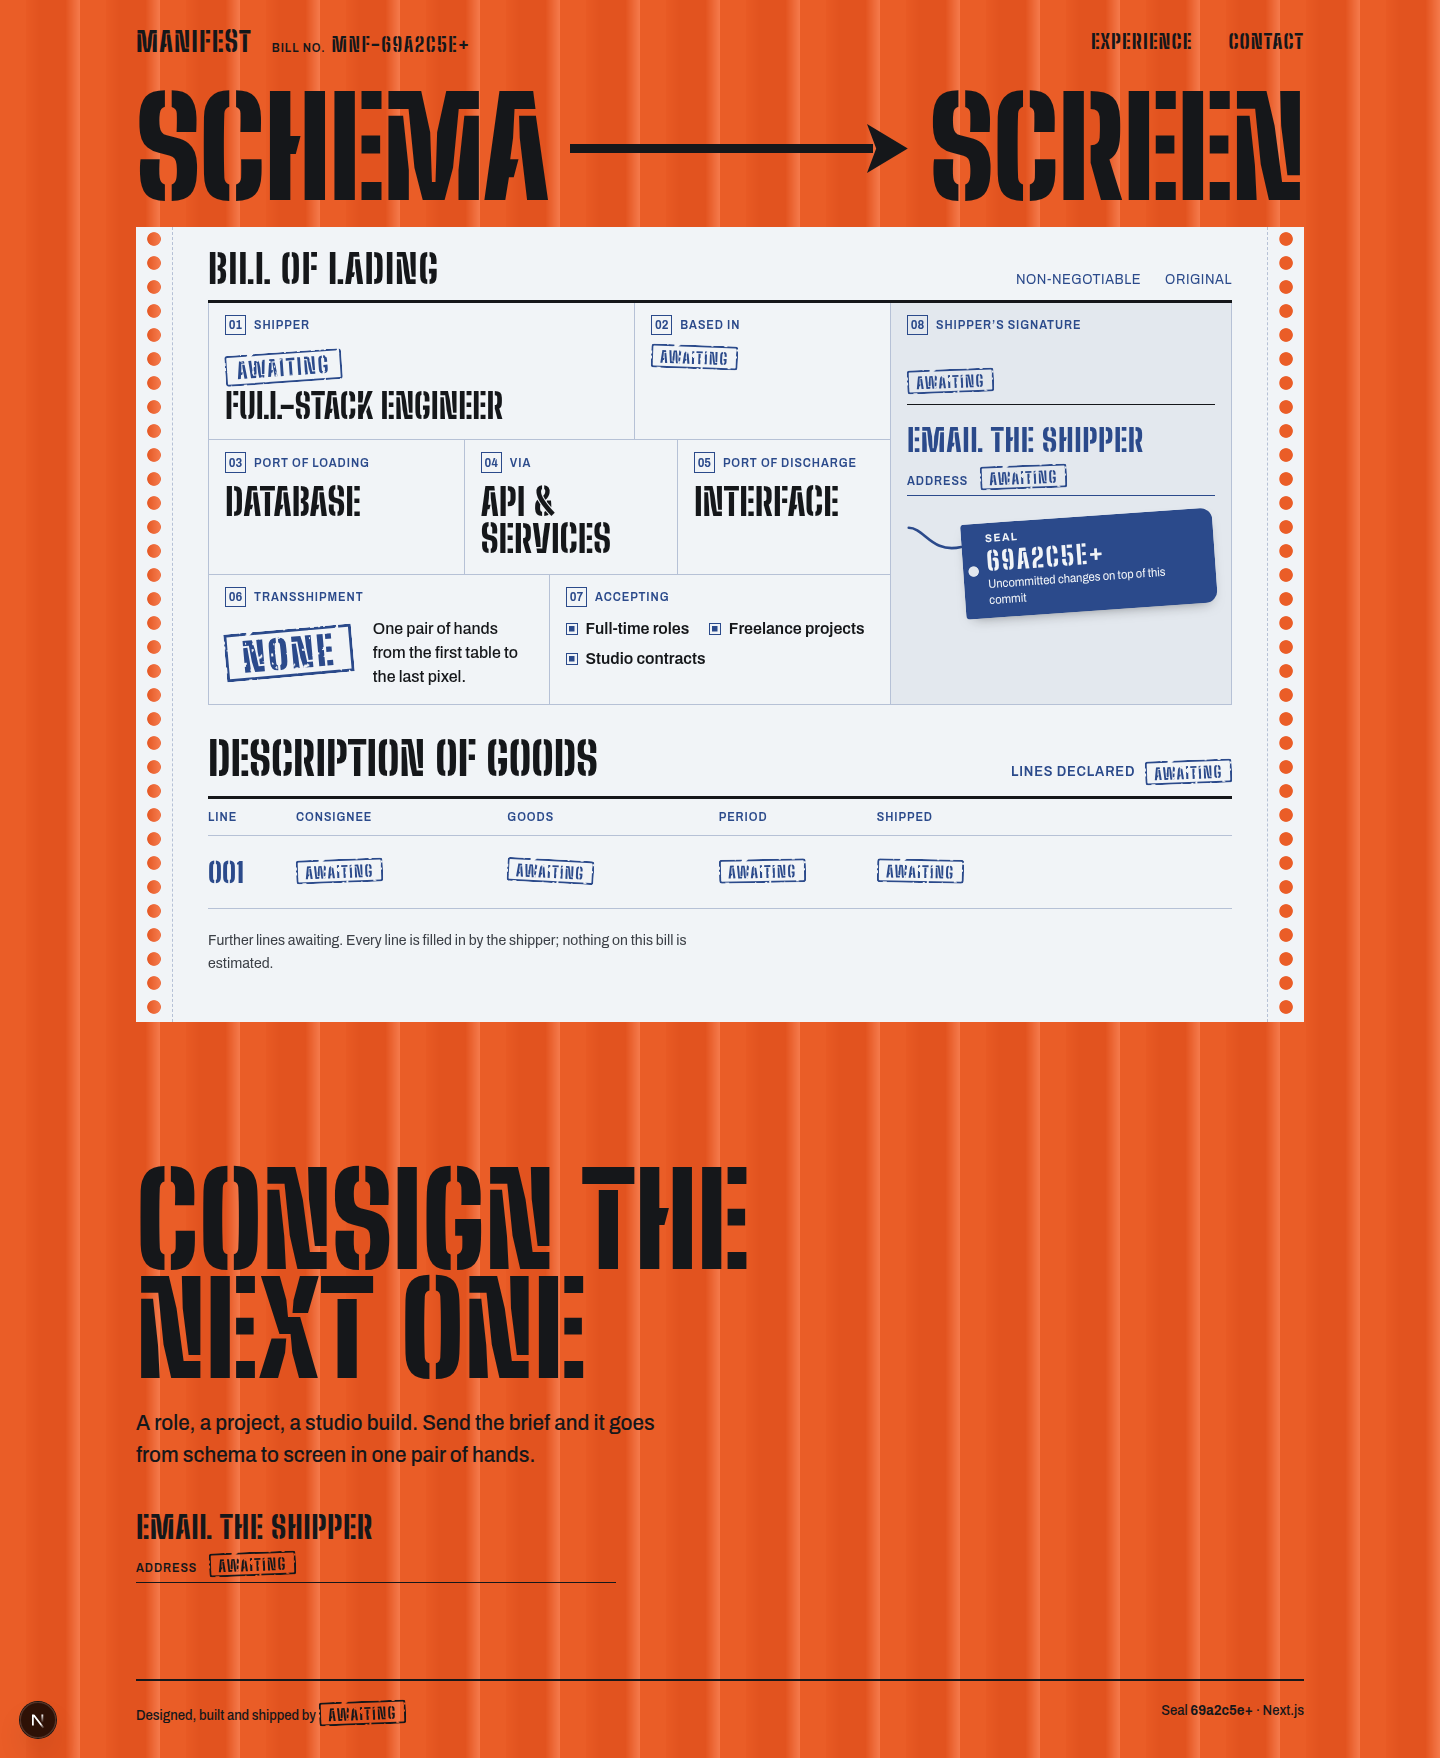
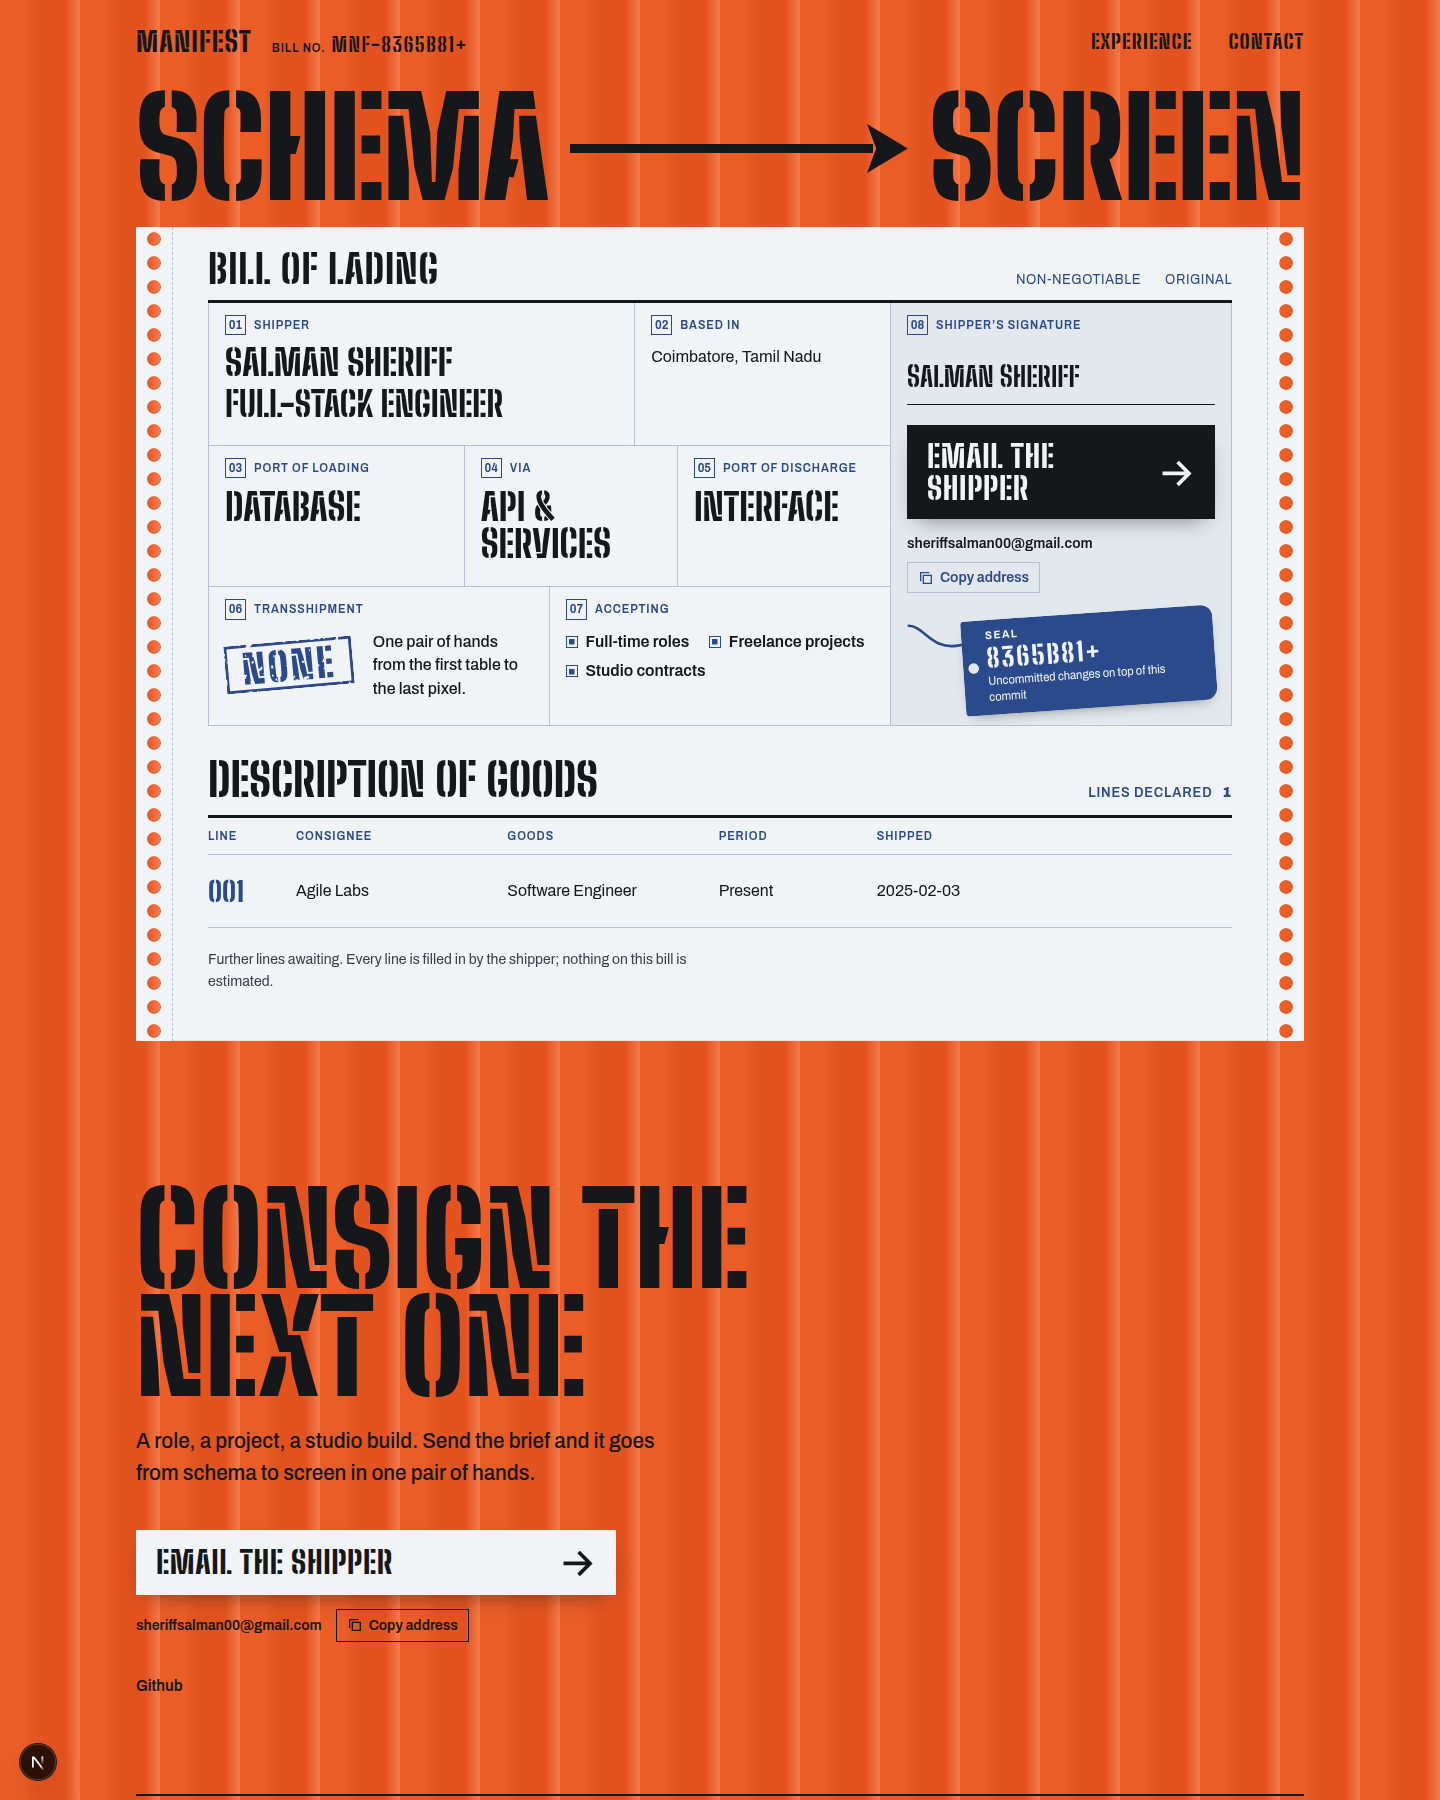
Animate the homepage with the manifest's own mechanics
Each animation plays once and comes from how a shipping manifest is
made, rather than generic section reveals:

- The bill feeds up three hole pitches on load, ahead of the existing
  route, stamp and seal sequence
- Cargo lines print left to right under a dot-matrix print head when
  they enter the viewport
- "Consign the next one" is sprayed on through a stencil mask
- The seal tag swings on its cable on hover
- Copy address results land like a rubber stamp (CSS keyframe)

Under reduced motion the page renders finished, with nothing moving
or fading in. Scroll triggers are re-measured after the load feed so
on-screen lines print immediately. DESIGN.md and design.json describe
the new motion rules.

Also fills in the shipper details in manifest-data.ts and refreshes
the review screenshots.

diff --git a/app/components/Shipment.tsx b/app/components/Shipment.tsx
@@ -2,46 +2,103 @@
 
 import { useRef } from "react";
 import gsap from "gsap";
+import { ScrollTrigger } from "gsap/ScrollTrigger";
 import { useGSAP } from "@gsap/react";
 
-gsap.registerPlugin(useGSAP);
+gsap.registerPlugin(useGSAP, ScrollTrigger);
 
-// The one authored moment: the route draws from schema to screen,
-// the "no transshipment" stamp lands, and the seal tag settles on its cable.
+const ease = "expo.out";
+
+// All motion on the page, told in the manifest's own mechanics:
+// the bill feeds in like tractor paper, cargo lines print under a moving head,
+// the closing line is sprayed through a stencil, and the seal swings on its cable.
+// Everything renders finished by default; motion only ever plays from that state.
 export function Shipment({ children, className }: { children: React.ReactNode; className?: string }) {
-  const scope = useRef<HTMLDivElement>(null);
+  const scope = useRef<HTMLElement>(null);
 
   useGSAP(
-    () => {
-      // A tab opened in the background would stall on the first frame; show it finished instead.
-      if (document.visibilityState !== "visible") return;
+    (_, contextSafe) => {
       const mm = gsap.matchMedia();
+
       mm.add("(prefers-reduced-motion: no-preference)", () => {
-        const ease = "expo.out";
-        gsap
-          .timeline({ delay: 0.15 })
-          .from("[data-route-line]", { scaleX: 0, transformOrigin: "left center", duration: 1.1, ease })
-          .from("[data-route-head]", { xPercent: -60, opacity: 0, duration: 0.5, ease }, "-=0.45")
-          .from(
-            "[data-route-end]",
-            { opacity: 0.15, filter: "blur(6px)", duration: 0.6, ease },
-            "<",
-          )
-          .from(
-            "[data-stamp-none]",
-            { scale: 1.9, opacity: 0, rotate: -14, filter: "blur(3px)", duration: 0.42, ease: "power4.in" },
-            "+=0.05",
-          )
-          .from("[data-seal]", { rotate: -24, y: -10, transformOrigin: "12% 50%", duration: 1.2, ease }, "-=0.1");
+        // A tab opened in the background would stall on the first frame; show it finished instead.
+        if (document.visibilityState === "visible") {
+          gsap
+            .timeline({ delay: 0.15 })
+            // Three feed ticks, one hole pitch each
+            // Scroll triggers measured mid-feed would sit 72px low; measure again once the paper stops
+            .from("[data-sheet]", { y: 72, duration: 0.36, ease: "steps(3)", onComplete: () => ScrollTrigger.refresh() }, 0)
+            .from("[data-route-line]", { scaleX: 0, transformOrigin: "left center", duration: 1.1, ease }, 0)
+            .from("[data-route-head]", { xPercent: -60, opacity: 0, duration: 0.5, ease }, "-=0.45")
+            .from("[data-route-end]", { opacity: 0.15, filter: "blur(6px)", duration: 0.6, ease }, "<")
+            .from(
+              "[data-stamp-none]",
+              { scale: 1.9, opacity: 0, rotate: -14, filter: "blur(3px)", duration: 0.42, ease: "power4.in" },
+              "+=0.05",
+            )
+            .from("[data-seal]", { rotate: -24, y: -10, transformOrigin: "12% 50%", duration: 1.2, ease }, "-=0.1");
+        }
+
+        // Each cargo line is printed once, left to right, as a dot-matrix head passes over it
+        gsap.utils.toArray<HTMLElement>("[data-print-line]").forEach((line) => {
+          const head = line.querySelector("[data-print-head]");
+          gsap
+            .timeline({ scrollTrigger: { trigger: line, start: "top bottom", once: true } })
+            .set(head, { opacity: 1 })
+            .from(line, { clipPath: "inset(0 100% 0 0)", duration: 0.75, ease: "steps(32)" }, 0)
+            .fromTo(head, { x: 0 }, { x: () => line.clientWidth, duration: 0.75, ease: "steps(32)" }, 0)
+            .to(head, { opacity: 0, duration: 0.15 });
+        });
+
+        // Paint sprayed through the stencil: a soft edge travels across the lettering
+        gsap.utils.toArray<HTMLElement>("[data-spray]").forEach((el) => {
+          gsap.fromTo(
+            el,
+            {
+              maskImage: "linear-gradient(90deg, black 40%, transparent 60%)",
+              maskSize: "260% 100%",
+              maskPosition: "100% 0%",
+              opacity: 0.35,
+            },
+            {
+              maskPosition: "0% 0%",
+              opacity: 1,
+              duration: 0.9,
+              ease: "power2.out",
+              clearProps: "maskImage,maskSize,maskPosition,opacity",
+              scrollTrigger: { trigger: el, start: "top 80%", once: true },
+            },
+          );
+        });
+
+        // The seal swings on its cable when pointed at, and settles back.
+        // GSAP folds the tab's CSS rotate (-4deg) into its transform, so these angles are absolute.
+        const seal = scope.current?.querySelector<HTMLElement>("[data-seal-tab]");
+        if (seal && contextSafe) {
+          const swing = contextSafe(() => {
+            gsap
+              .timeline({ overwrite: true })
+              .to(seal, { rotate: -9, duration: 0.18, ease: "sine.out" })
+              .to(seal, { rotate: 1, duration: 0.32, ease: "sine.inOut" })
+              .to(seal, { rotate: -6, duration: 0.3, ease: "sine.inOut" })
+              .to(seal, { rotate: -4, duration: 0.4, ease: "sine.out" });
+          });
+          seal.addEventListener("pointerenter", swing);
+          return () => seal.removeEventListener("pointerenter", swing);
+        }
       });
+
+      // Reduced motion: the page is the finished bill, already printed and painted.
+      // State feedback (hover colours, the Copied label) still changes, just without travel.
+
       return () => mm.revert();
     },
     { scope },
   );
 
   return (
-    <div ref={scope} className={className}>
+    <main ref={scope} id="bill" className={className}>
       {children}
-    </div>
+    </main>
   );
 }

diff --git a/app/page.tsx b/app/page.tsx
@@ -27,7 +27,7 @@ function SealTag() {
       <svg className="mt-[0.4rem] h-9 w-14 flex-none" viewBox="0 0 64 40" aria-hidden="true">
         <path d="M2 6c18 0 26 30 60 22" fill="none" stroke="currentColor" strokeWidth="3" strokeLinecap="round" />
       </svg>
-      <div className="grid -rotate-4 gap-0.5 rounded-l-sm rounded-r-xl bg-carbon bg-[radial-gradient(circle_at_0.65rem_50%,var(--color-form-shade)_0.3rem,transparent_0.35rem)] py-2 pr-3.5 pb-2.5 pl-6 text-form shadow-[0_6px_14px_-8px_rgb(21_23_26/0.55)]">
+      <div data-seal-tab className="grid -rotate-4 gap-0.5 rounded-l-sm rounded-r-xl bg-carbon bg-[radial-gradient(circle_at_0.65rem_50%,var(--color-form-shade)_0.3rem,transparent_0.35rem)] py-2 pr-3.5 pb-2.5 pl-6 text-form shadow-[0_6px_14px_-8px_rgb(21_23_26/0.55)]">
         <span className="text-[0.6875rem] font-bold tracking-[0.14em] uppercase">Seal</span>
         <span className={`${display} text-[1.625rem] leading-none font-extrabold tracking-[0.08em]`}>
           {commit ? `${commit}${dirty ? "+" : ""}` : "Unsealed"}
@@ -103,8 +103,8 @@ export default function Home() {
         </nav>
       </header>
 
-      <main id="bill">
-        <Shipment className="mx-auto max-w-sheet px-(--gutter)">
+      <Shipment>
+        <div className="mx-auto max-w-sheet px-(--gutter)">
           <h1
             className={`${display} mt-[clamp(1.25rem,3vh,2rem)] mb-[clamp(1rem,2.5vh,1.5rem)] flex items-center gap-[clamp(0.5rem,1.5vw,1.5rem)] text-[clamp(2.75rem,10vw,8.5rem)] leading-[0.8] font-black tracking-[-0.01em] text-ink [font-variation-settings:'opsz'_72]`}
           >
@@ -120,6 +120,7 @@ export default function Home() {
           </h1>
 
           <article
+            data-sheet
             className="tractor-feed bg-form px-[calc(var(--feed)+0.625rem)] pb-[clamp(2rem,4vw,3rem)] sheet:px-[calc(var(--feed)+clamp(0.75rem,2.5vw,2.25rem))]"
             aria-labelledby="bill-title"
           >
@@ -221,8 +222,14 @@ export default function Home() {
                 {cargo.map((line, i) => (
                   <li
                     key={i}
-                    className="grid grid-cols-[3rem_minmax(0,1fr)] items-start gap-x-3 gap-y-2 border-b border-carbon-rule py-[1.375rem] text-[1.0625rem] sheet:grid-cols-[4.5rem_minmax(0,1.1fr)_minmax(0,1.1fr)_minmax(0,0.8fr)_minmax(0,2fr)] sheet:items-center sheet:gap-4"
+                    data-print-line
+                    className="relative grid grid-cols-[3rem_minmax(0,1fr)] items-start gap-x-3 gap-y-2 border-b border-carbon-rule py-[1.375rem] text-[1.0625rem] sheet:grid-cols-[4.5rem_minmax(0,1.1fr)_minmax(0,1.1fr)_minmax(0,0.8fr)_minmax(0,2fr)] sheet:items-center sheet:gap-4"
                   >
+                    <span
+                      data-print-head
+                      aria-hidden="true"
+                      className="pointer-events-none absolute inset-y-3 -left-1.5 w-1.5 bg-carbon opacity-0"
+                    />
                     <span className={`${display} row-span-4 text-[1.75rem] leading-none font-extrabold text-carbon sheet:row-span-1`}>
                       {String(i + 1).padStart(3, "0")}
                     </span>
@@ -247,7 +254,7 @@ export default function Home() {
               </p>
             </section>
           </article>
-        </Shipment>
+        </div>
 
         <section
           id="consign"
@@ -256,6 +263,7 @@ export default function Home() {
         >
           <h2
             id="consign-title"
+            data-spray
             className={`${display} mt-0 mb-6 max-w-[10ch] text-[clamp(3.5rem,9vw,8rem)] leading-[0.85] font-black text-ink [font-variation-settings:'opsz'_72]`}
           >
             Consign the next one
@@ -278,7 +286,7 @@ export default function Home() {
             </ul>
           )}
         </section>
-      </main>
+      </Shipment>
 
       <footer className="ink-steel mx-auto flex w-[min(100%-2*var(--gutter),var(--container-sheet)-2*var(--gutter))] flex-wrap justify-between gap-x-8 gap-y-2 border-t-2 border-ink pt-5 pb-8 text-sm font-medium text-ink [&_p]:m-0">
         <p>

diff --git a/app/manifest-data.ts b/app/manifest-data.ts
@@ -9,13 +9,15 @@ export type CargoLine = {
 };
 
 export const shipper = {
-  name: null as string | null,
-  email: null as string | null,
-  location: null as string | null,
-  links: [] as { label: string; href: string }[],
+  name: "Salman Sheriff" as string | null,
+  email: "sheriffsalman00@gmail.com" as string | null,
+  location: "Coimbatore, Tamil Nadu" as string | null,
+  links: [
+    {label: "Github", href: "https://github.com/salmansheri"}
+  ] as { label: string; href: string }[],
 };
 
 // One line per role, newest first. The open line below is the form's blank, not a role.
-export const cargo: CargoLine[] = [{ company: null, role: null, period: null, shipped: null }];
+export const cargo: CargoLine[] = [{ company: "Agile Labs", role: "Software Engineer", period: "Present", shipped: "2025-02-03" }];
 
 export const declaredLines = cargo.filter((line) => line.company && line.role).length;

diff --git a/app/components/EmailAction.tsx b/app/components/EmailAction.tsx
@@ -77,7 +77,9 @@ export function EmailAction({ email, tone = "form" }: { email: string | null; to
           onClick={copyAddress}
         >
           <CopyIcon />
-          {copy === "copied" ? "Copied" : copy === "failed" ? "Copy failed, select the address" : "Copy address"}
+          <span key={copy} className={copy === "idle" ? undefined : "inline-block animate-stamp-in motion-reduce:animate-none"}>
+            {copy === "copied" ? "Copied" : copy === "failed" ? "Copy failed, select the address" : "Copy address"}
+          </span>
         </button>
         <span className="sr-only" aria-live="polite">
           {copy === "copied" ? "Address copied to clipboard" : ""}

diff --git a/app/globals.css b/app/globals.css
@@ -27,6 +27,16 @@
   --breakpoint-wide: 67.5rem;
 
   --ease-out-expo: cubic-bezier(0.16, 1, 0.3, 1);
+
+  /* A rubber stamp landing: oversized and faint, then pressed flat */
+  --animate-stamp-in: stamp-in 160ms cubic-bezier(0.5, 0, 0.75, 0) both;
+
+  @keyframes stamp-in {
+    from {
+      opacity: 0.2;
+      scale: 1.35;
+    }
+  }
 }
 
 @theme inline {

diff --git a/DESIGN.md b/DESIGN.md
@@ -147,7 +147,7 @@ components:
 
 The whole site is one shipping document laid on the side of a container. Container orange owns entire bands as corrugated steel; on that steel sits a single continuous bill of lading, cool form-white paper with carbon-blue rules, numbered fields and rubber stamps. Monumental stencil type is the voice of the steel and the headings; a plain, slightly condensed form face fills in the fields. Nothing floats: there are no card grids, no dark screen, no neon. The bill is one sheet, and its repetition (identical numbered fields, identical cargo lines) is the grid.
 
-Density is that of a real form: tight field padding, hairline carbon rules, labels in small tracked caps, values large and plain. Honesty is a visual rule here: a fact that has not been supplied is drawn as a stamped AWAITING gap on an open line, never filled with a plausible placeholder. Motion is a single authored load moment; everything else is still paper.
+Density is that of a real form: tight field padding, hairline carbon rules, labels in small tracked caps, values large and plain. Honesty is a visual rule here: a fact that has not been supplied is drawn as a stamped AWAITING gap on an open line, never filled with a plausible placeholder. Motion speaks the document's own mechanics (paper feeding, a print head, stencil spray, a tag on its cable) and plays once; nothing loops.
 
 **Key Characteristics:**
 - Container orange as ground, with corrugation relief that only ever lightens the orange.
@@ -155,7 +155,7 @@ Density is that of a real form: tight field padding, hairline carbon rules, labe
 - One stencil display face at monumental scale; Archivo (narrowed to wdth 92, tabular figures) for every field.
 - Carbon blue for rules, field labels, numbers and stamps on the form; stencil ink for stamps on bare steel.
 - Missing facts render as AWAITING rubber stamps.
-- One load animation; no ambient motion.
+- Motion is mechanical and plays once: feed, print, spray, stamp, swing. No ambient loops.
 
 ## Colors
 
@@ -261,7 +261,14 @@ The one call to action, drawn as a solid stencil-ink slab.
 - **Style:** two stencil 800 uppercase ink links on steel (1.25rem, 1.0625rem under 45rem). Hover draws a 2px ink underline (160ms ease-out).
 
 ### Motion
-One authored load timeline (Shipment): the route line draws left to right, the arrowhead slides in, SCREEN sharpens from blur, the NONE stamp slams down, and the seal tag swings onto its cable (expo.out). It runs only under `prefers-reduced-motion: no-preference` and only when the tab is visible at load; otherwise the page renders finished. Smooth scrolling is likewise off under reduced motion.
+All motion lives in `Shipment` (GSAP + ScrollTrigger) except the copy stamp, which is a CSS keyframe. Each piece plays once and comes from how a real manifest is made:
+- **Load timeline:** the bill feeds up three hole pitches in stepped ticks (`steps(3)`, 0.36s), the route line draws left to right, the arrowhead slides in, SCREEN sharpens from blur, the NONE stamp slams down, and the seal tag swings onto its cable (`expo.out`). Skipped when the tab is not visible at load. Scroll triggers are re-measured when the feed stops.
+- **Cargo lines print:** when a line's top enters the viewport, a 6px carbon print head passes left to right while the line is revealed behind it (`clip-path`, `steps(32)`, 0.75s), then the head fades.
+- **Closing line is sprayed:** "Consign the next one" is revealed by a soft-edged mask travelling across the stencil lettering (0.9s, `power2.out`) when it reaches 80% of the viewport; the mask is cleared afterwards.
+- **Seal swings:** pointing at the seal tab swings it on its cable (-9°, 1°, -6°, back to its -4° rest, sine eases). GSAP folds the tab's CSS `rotate` into its transform, so swing angles are absolute.
+- **Copied stamp:** the copy button's result label lands like a rubber stamp (`animate-stamp-in`: 1.35× and faint to flat, 160ms).
+- **Reduced motion:** nothing travels or fades in; the bill renders finished, already printed and painted. Hover colour changes and the Copied/failed label text still change. Smooth scrolling is off.
+
 
 ## Do's and Don'ts
 
@@ -272,7 +279,7 @@ One authored load timeline (Shipment): the route line draws left to right, the a
 - **Do** add new roles as another identical manifest line, numbered in sequence.
 - **Do** add new facts as numbered fields with carbon labels and carbon-rule hairlines.
 - **Do** keep any steel texture lighter than #e2531f so ink text stays at 4.7:1 or better.
-- **Do** keep the one load animation the only authored motion, skipped under reduced motion and in background tabs.
+- **Do** draw every animation from the manifest's own mechanics, play it once, and render the finished bill under reduced motion; the load timeline is also skipped in background tabs.
 
 ### Don't:
 - **Don't** invent a value for a fact the shipper has not supplied, including names, dates, companies, counts or the email address.
